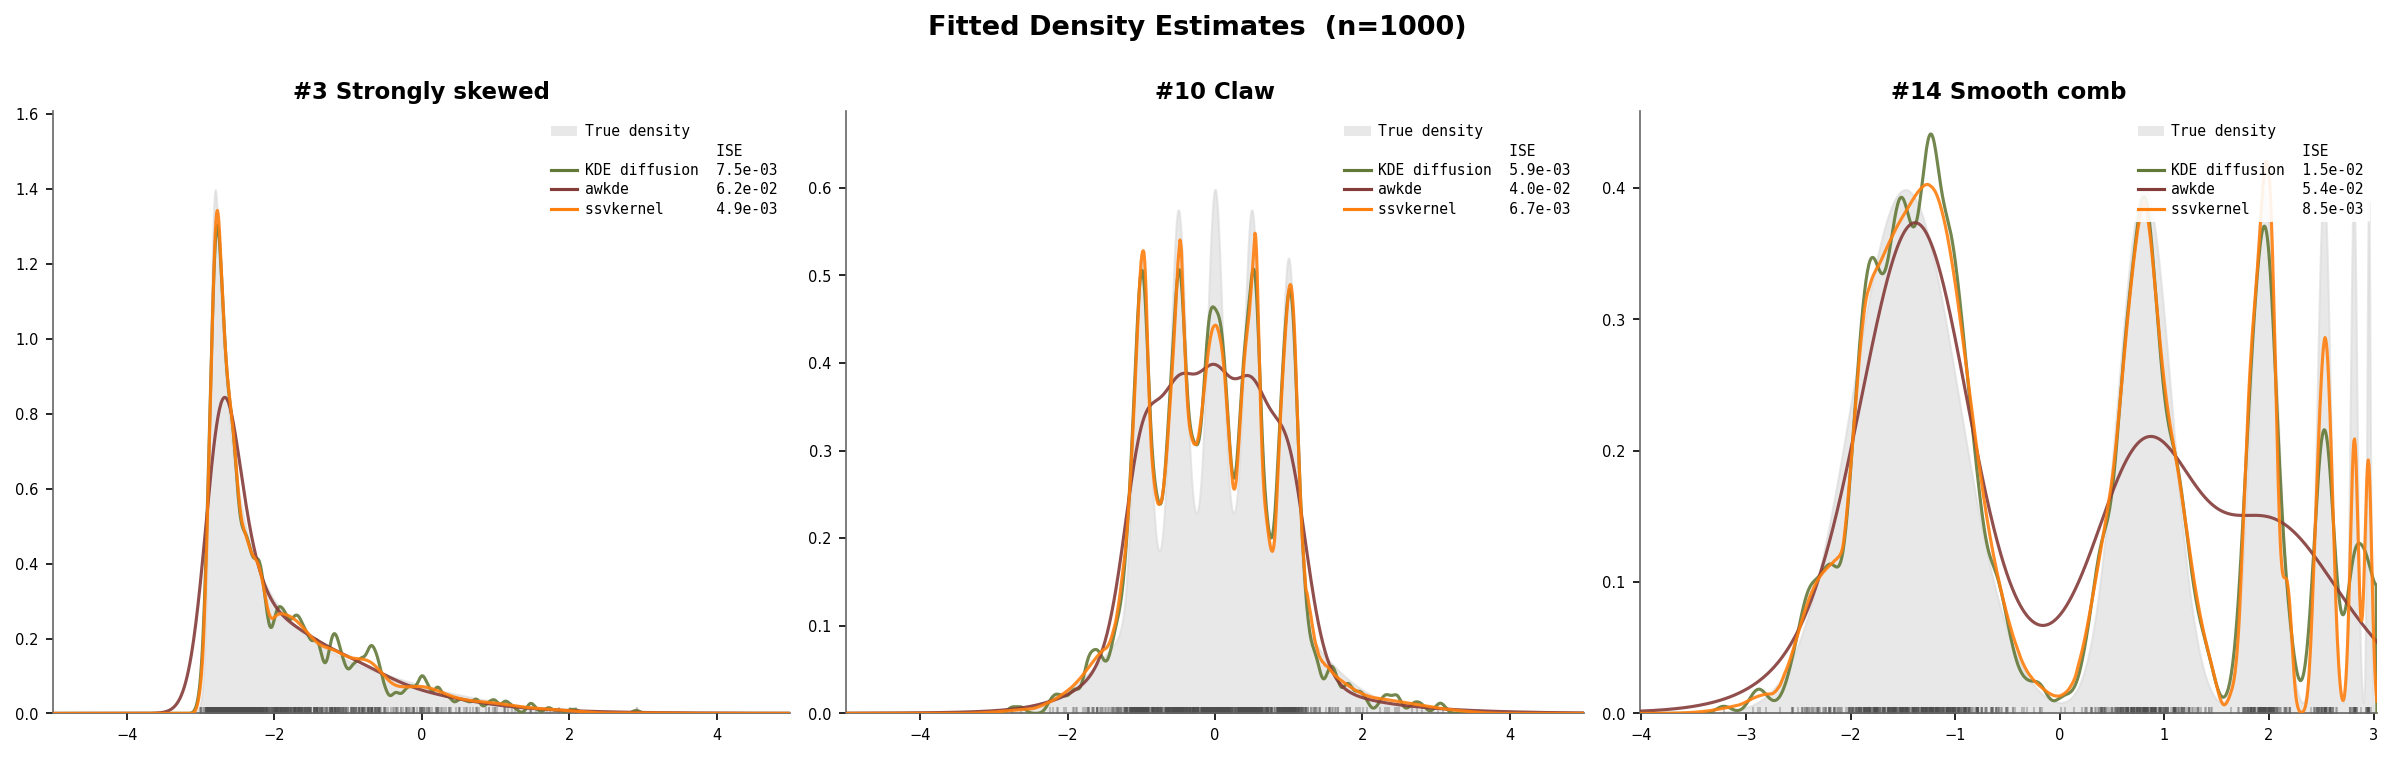
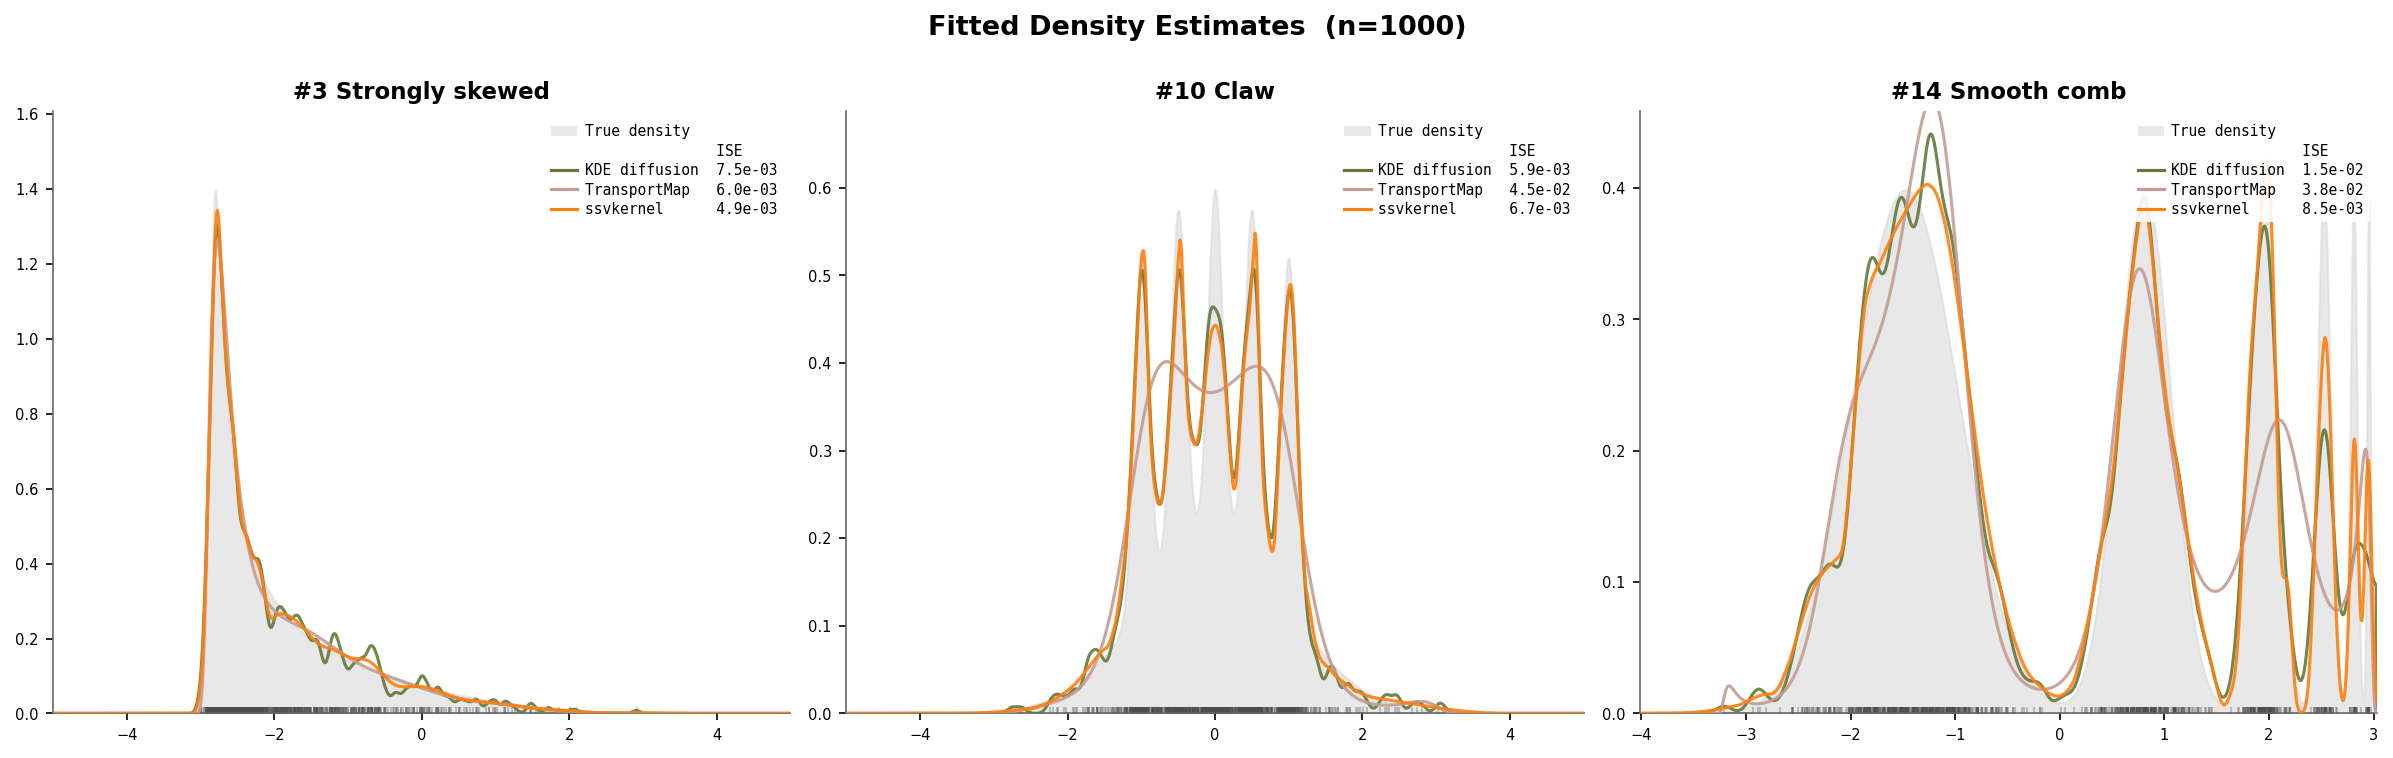
Remove CPU time from benchmark figures, use wall time only
CPU time (process_time) sums across all threads including MKL idle
thread pool, making it misleading. Switch to wall time only in figures
and console output. Also switch run_speed_comparison.py to perf_counter,
exclude Zuko NSF from figures, and use TransportMap in density overlay.

diff --git a/benchmarks/performance_comparison/run_mise_comparison.py b/benchmarks/performance_comparison/run_mise_comparison.py
@@ -1090,8 +1090,7 @@ def print_tables(agg, ranks, densities, methods, mc_runs, n_samples):
     print()
 
     # ── Time tables ──
-    for time_key, time_label in [('median_wall_time', 'Median wall time (ms)'),
-                                  ('median_cpu_time', 'Median CPU time (ms)')]:
+    for time_key, time_label in [('median_wall_time', 'Median wall time (ms)')]:
         print()
         print(time_label)
         print(f'  {"Density":<{name_w}}', end='')
@@ -1313,17 +1312,12 @@ def _scatter_speed_on_ax(ax, agg, densities, methods, n_samples, time_key,
 
 
 def fig_accuracy_vs_speed(agg, densities, methods, out_dir, n_samples):
-    """Two-panel scatter: CPU time (left) and wall time (right) vs ISE."""
-    fig, axes = plt.subplots(1, 2, figsize=(14, 7))
+    """Single-panel scatter: wall time vs ISE."""
+    fig, ax = plt.subplots(1, 1, figsize=(8, 7))
 
-    _scatter_speed_on_ax(axes[0], agg, densities, methods, n_samples,
-                         'median_cpu_time',
-                         'Median CPU time per fit+evaluate (ms)',
-                         title='CPU time')
-    _scatter_speed_on_ax(axes[1], agg, densities, methods, n_samples,
+    _scatter_speed_on_ax(ax, agg, densities, methods, n_samples,
                          'median_wall_time',
-                         'Median wall time per fit+evaluate (ms)',
-                         title='Wall time')
+                         'Median wall time per fit+evaluate (ms)')
 
     fig.suptitle(f'Accuracy vs Speed  (n={n_samples})', fontsize=13,
                  fontweight='bold', y=1.02)
@@ -1680,22 +1674,26 @@ def main():
     if not args.no_figures and HAS_MATPLOTLIB:
         print()
         print('Generating figures...')
+        # Exclude methods from figures (still computed and cached)
+        _FIG_EXCLUDE = {'Zuko NSF'}
+        fig_methods = [(n, f, a) for n, f, a in active
+                       if not any(n.startswith(ex) for ex in _FIG_EXCLUDE)]
         if len(sample_sizes) >= 2:
             # Multi-panel figures (one column per sample size)
             fig_accuracy_vs_speed_multi(
-                all_agg, MW_DENSITIES, active, fig_dir, sample_sizes)
+                all_agg, MW_DENSITIES, fig_methods, fig_dir, sample_sizes)
             fig_mise_heatmap_multi(
-                all_agg, MW_DENSITIES, active, fig_dir, sample_sizes)
+                all_agg, MW_DENSITIES, fig_methods, fig_dir, sample_sizes)
             fig_ise_violin_multi(
-                all_ise, active, fig_dir, sample_sizes)
+                all_ise, fig_methods, fig_dir, sample_sizes)
         else:
             n_samples = sample_sizes[0]
             fig_accuracy_vs_speed(
-                all_agg[n_samples], MW_DENSITIES, active, fig_dir, n_samples)
+                all_agg[n_samples], MW_DENSITIES, fig_methods, fig_dir, n_samples)
             fig_mise_heatmap(
-                all_agg[n_samples], MW_DENSITIES, active, fig_dir, n_samples)
+                all_agg[n_samples], MW_DENSITIES, fig_methods, fig_dir, n_samples)
             fig_ise_violin(
-                all_ise[n_samples], active, fig_dir, n_samples)
+                all_ise[n_samples], fig_methods, fig_dir, n_samples)
         print()
     elif args.no_figures:
         print('  Figures skipped (--no-figures)')

diff --git a/benchmarks/performance_comparison/fig_density_overlay.py b/benchmarks/performance_comparison/fig_density_overlay.py
@@ -5,7 +5,7 @@ Two-panel figure showing representative fits on challenging Marron-Wand densitie
   Left:  #3 Strongly skewed (8 cascading components)
   Right: #14 Smooth comb (6 components)
 
-Methods shown: ssvkernel, KDE diffusion, Zuko NSF.
+Methods shown: ssvkernel, KDE diffusion, TransportMap.
 
 Figure style matches benchmarks/marron_wand/compare_methods.py:
   - White background, no grid, only left/bottom spines
@@ -38,7 +38,7 @@ import numpy as np
 from run_mise_comparison import (
     MW_DENSITIES, N_GRID,
     mw_sample, mw_support, mw_pdf, compute_ise,
-    wrap_ssvkernel, wrap_kde_diffusion, wrap_awkde,
+    wrap_ssvkernel, wrap_kde_diffusion, wrap_transportmaps,
     _method_color,
 )
 
@@ -85,7 +85,7 @@ def main():
 
     methods = [
         ('KDE diffusion', wrap_kde_diffusion),
-        ('awkde', wrap_awkde),
+        ('TransportMap', wrap_transportmaps),
         ('ssvkernel', wrap_ssvkernel),
     ]
 

diff --git a/benchmarks/speed_comparison/run_speed_comparison.py b/benchmarks/speed_comparison/run_speed_comparison.py
@@ -131,15 +131,15 @@ def bench_awkde(x, t_grid):
 # ---------------------------------------------------------------------------
 
 def time_func(func, x, t_grid, n_runs):
-    """Run func n_runs times, return median CPU time in seconds."""
+    """Run func n_runs times, return median wall time in seconds."""
     # Warmup
     func(x, t_grid)
 
     times = []
     for _ in range(n_runs):
-        t0 = time.process_time()
+        t0 = time.perf_counter()
         func(x, t_grid)
-        elapsed = time.process_time() - t0
+        elapsed = time.perf_counter() - t0
         times.append(elapsed)
     return np.median(times)
 

diff --git a/README.md b/README.md
@@ -124,7 +124,7 @@ All methods use default settings for a fair comparison.
 
 ![Density overlay](https://raw.githubusercontent.com/shimazaki/ssdensity/master/benchmarks/performance_comparison/fig/density_overlay.png)
 
-Three representative Marron–Wand densities (n=1000): #3 Strongly skewed (8 cascading components), #10 Claw (narrow spikes on a broad mode), and #14 Smooth comb (6 components at different scales). The gray fill shows the true density. `ssvkernel` (orange) closely tracks the true shape, while KDE diffusion slightly over-smooths the fine structure and `awkde` misses it entirely.
+Three representative Marron–Wand densities (n=1000): #3 Strongly skewed (8 cascading components), #10 Claw (narrow spikes on a broad mode), and #14 Smooth comb (6 components at different scales). The gray fill shows the true density. `ssvkernel` (orange) closely tracks the true shape, while KDE diffusion slightly over-smooths the fine structure and TransportMap struggles with multi-scale detail.
 
 ### Assessment of estimation error
 
@@ -143,18 +143,9 @@ For the best accuracy on complex shapes, `ssvkernel` wins.
 
 ![Accuracy vs Speed](https://raw.githubusercontent.com/shimazaki/ssdensity/master/benchmarks/performance_comparison/fig/accuracy_vs_speed.png)
 
-Pooled median ISE (y-axis, log scale) versus mean computation time per
-fit-and-evaluate call (x-axis, log scale). The left panel shows CPU time
-(`time.process_time`, summed across all threads); the right panel shows wall
-time (`time.perf_counter`). Points closer to the lower-left corner are both
-more accurate and faster.
-
-**Note on CPU time vs wall time:** NumPy is linked against Intel MKL, which
-parallelizes both BLAS operations and element-wise math (via VML) across all
-available cores. Methods that rely on large array operations (e.g., KDE
-diffusion, `sshist`) can show CPU time much higher than wall time because MKL
-spreads the work across many threads. Wall time is the more meaningful metric
-for end-user latency.
+Pooled median ISE (y-axis, log scale) versus mean wall time per
+fit-and-evaluate call (x-axis, log scale). Points closer to the lower-left
+corner are both more accurate and faster.
 
 ### Error by method and density
 
